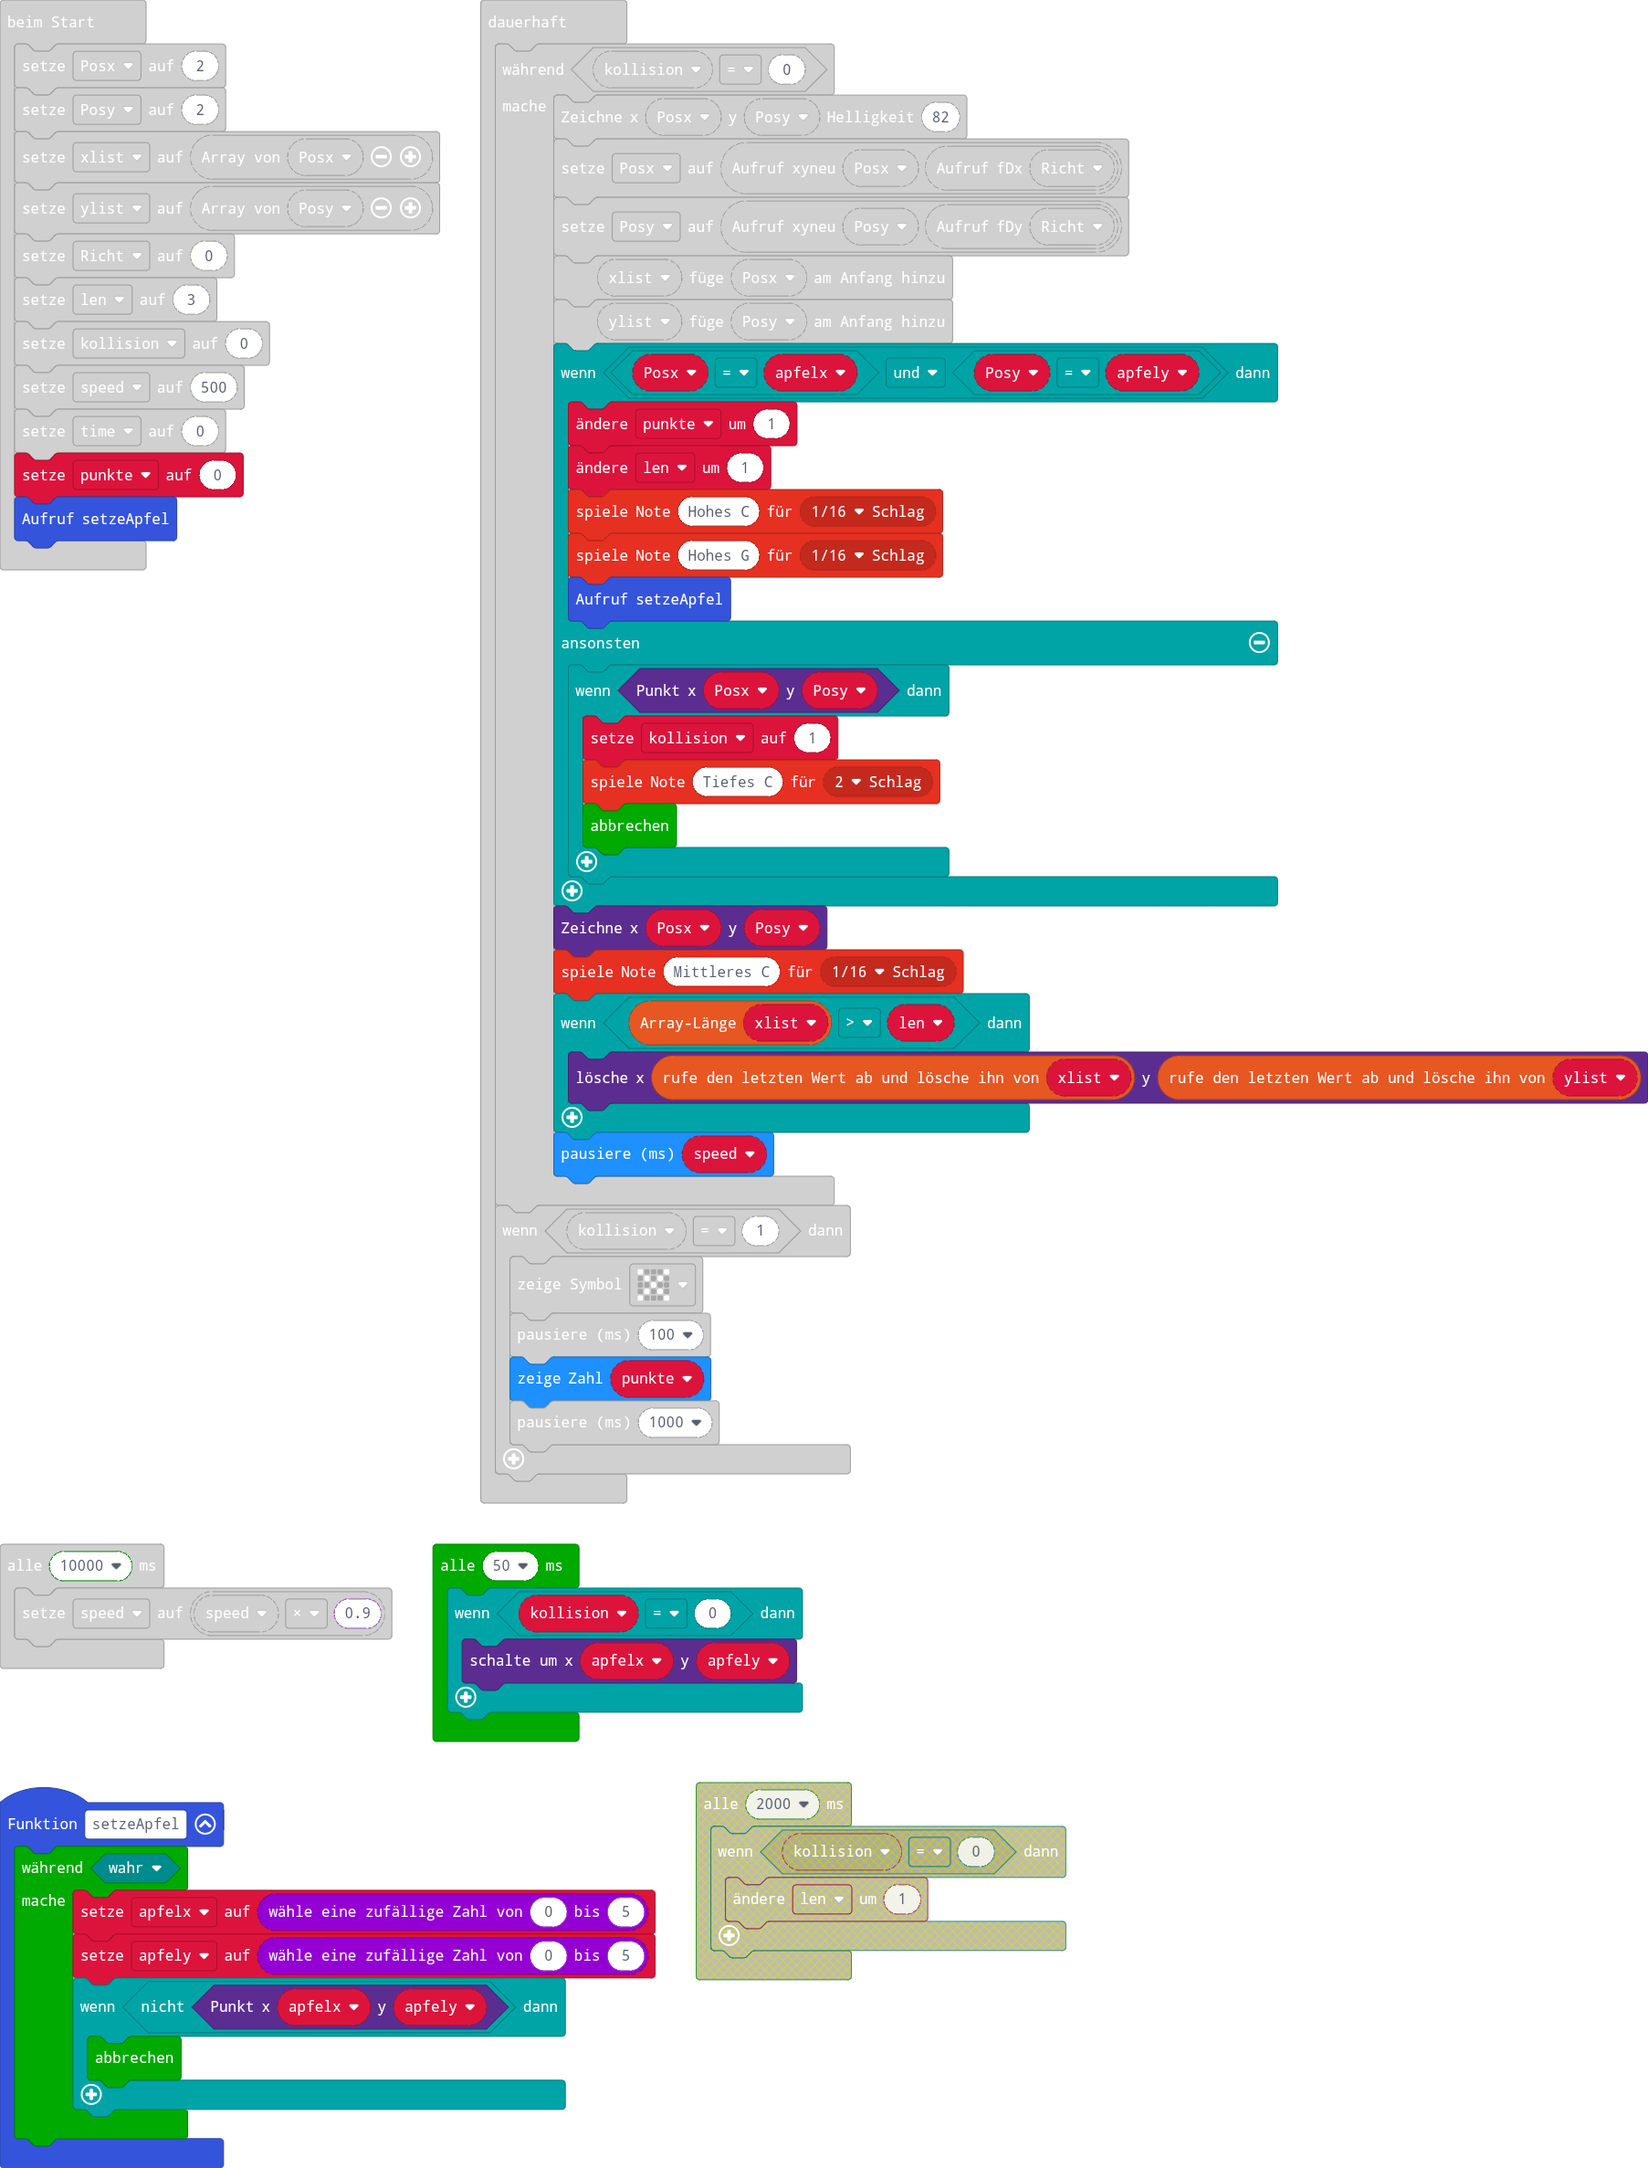
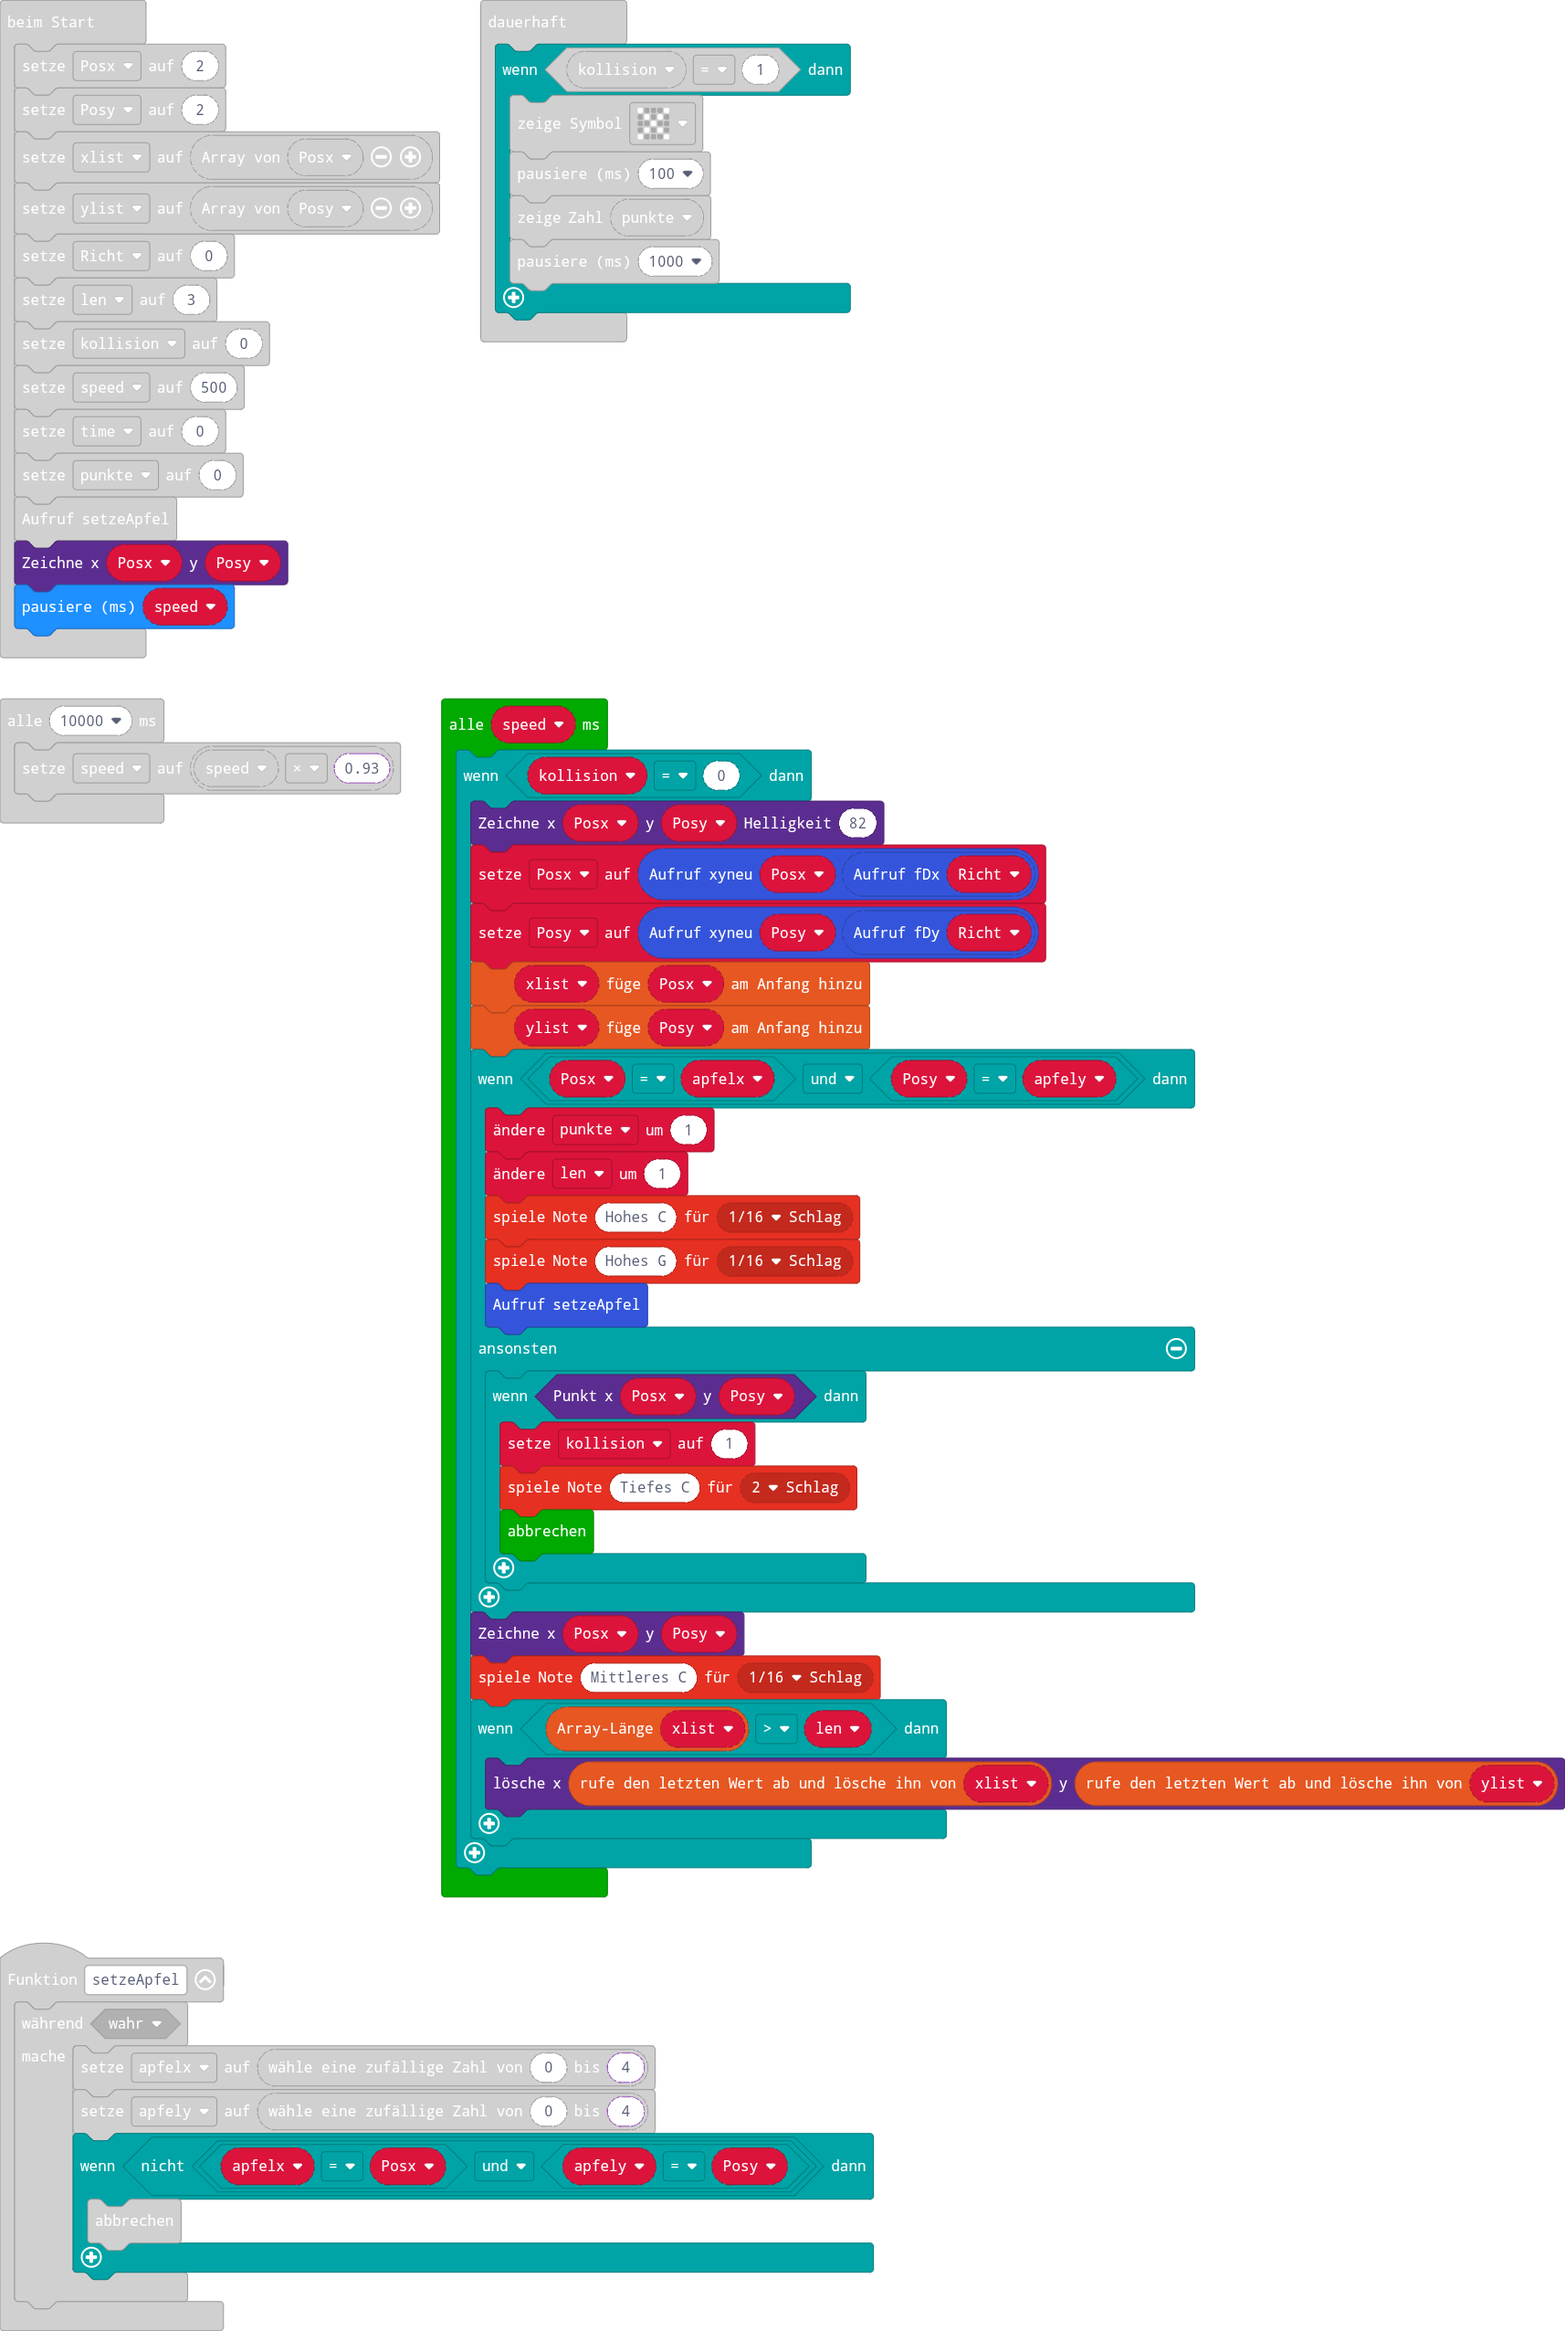
äpfel können auch in der schlange auftauchen. statt dauerhaft / PAUSE trigger alle x ms

diff --git a/main.ts b/main.ts
@@ -1,8 +1,8 @@
 function setzeApfel () {
     while (true) {
-        apfelx = randint(0, 5)
-        apfely = randint(0, 5)
-        if (!(led.point(apfelx, apfely))) {
+        apfelx = randint(0, 4)
+        apfely = randint(0, 4)
+        if (!(apfelx == Posx && apfely == Posy)) {
             break;
         }
     }
@@ -65,8 +65,10 @@ let Erg = 0
 let apfely = 0
 let apfelx = 0
 let Richt = 0
-let Posx = 2
-let Posy = 2
+let Posy = 0
+let Posx = 0
+Posx = 2
+Posy = 2
 let xlist = [Posx]
 let ylist = [Posy]
 Richt = 0
@@ -76,13 +78,15 @@ let speed = 500
 let time = 0
 let punkte = 0
 setzeApfel()
+led.plot(Posx, Posy)
+basic.pause(speed)
 loops.everyInterval(1000, function () {
     if (kollision == 0) {
         time += 1
     }
 })
 loops.everyInterval(10000, function () {
-    speed = speed * 0.9
+    speed = speed * 0.93
 })
 loops.everyInterval(50, function () {
     if (kollision == 0) {
@@ -90,7 +94,15 @@ loops.everyInterval(50, function () {
     }
 })
 basic.forever(function () {
-    while (kollision == 0) {
+    if (kollision == 1) {
+        basic.showIcon(IconNames.No)
+        basic.pause(100)
+        basic.showNumber(punkte)
+        basic.pause(1000)
+    }
+})
+loops.everyInterval(speed, function () {
+    if (kollision == 0) {
         led.plotBrightness(Posx, Posy, 82)
         Posx = xyneu(Posx, fDx(Richt))
         Posy = xyneu(Posy, fDy(Richt))
@@ -114,12 +126,5 @@ basic.forever(function () {
         if (xlist.length > len) {
             led.unplot(xlist.pop(), ylist.pop())
         }
-        basic.pause(speed)
-    }
-    if (kollision == 1) {
-        basic.showIcon(IconNames.No)
-        basic.pause(100)
-        basic.showNumber(punkte)
-        basic.pause(1000)
     }
 })
